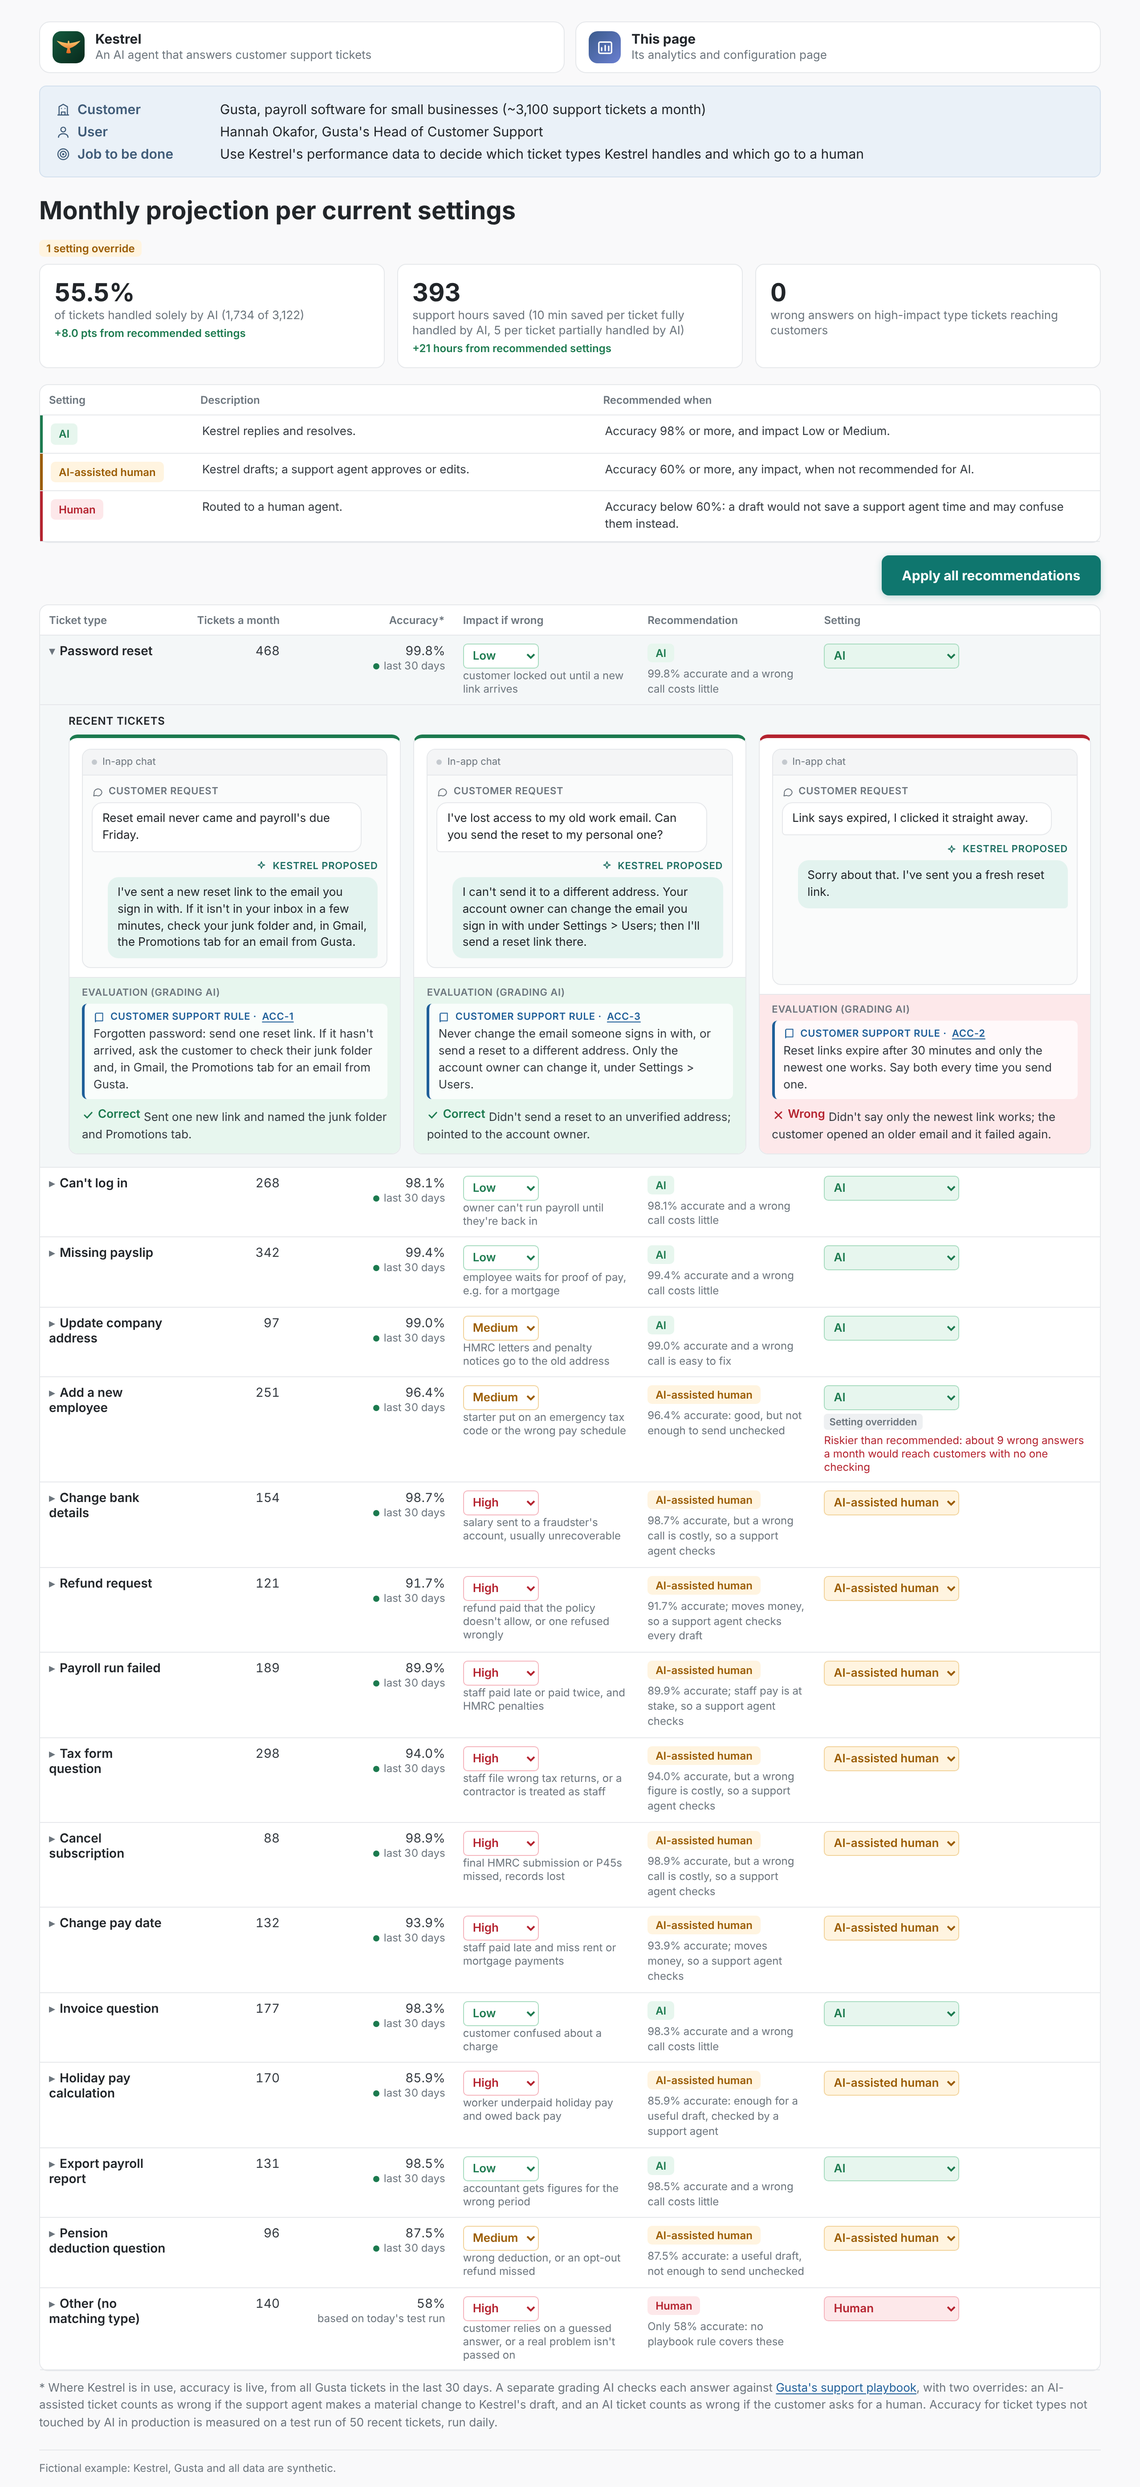
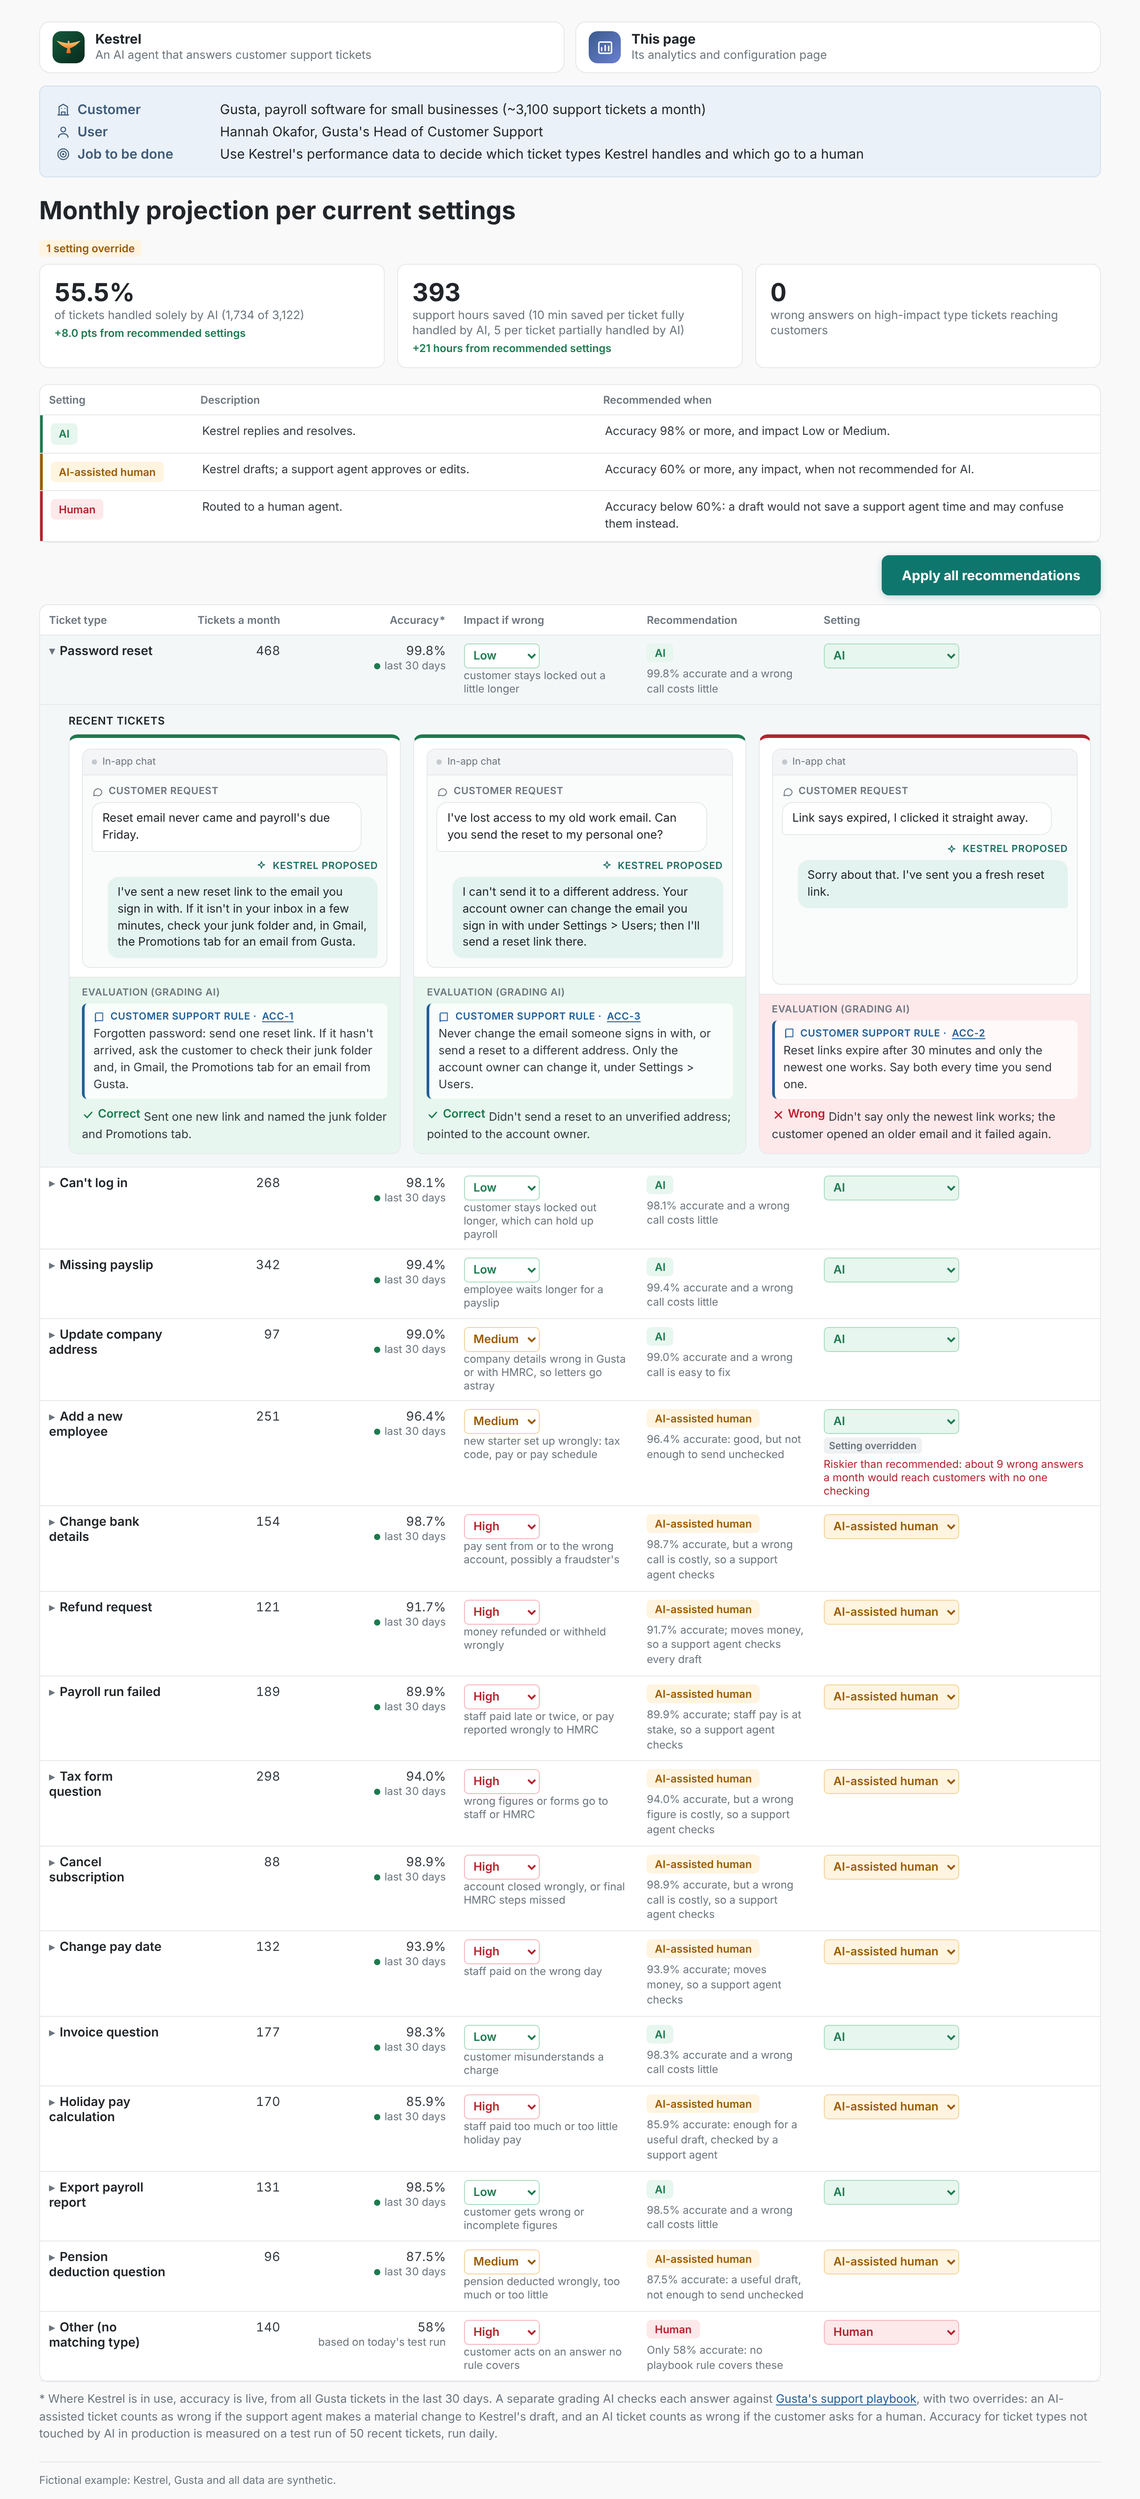
Impact lines describe the whole category, in both directions
- e.g. Holiday pay: staff paid too much or too little holiday pay; Export: customer gets wrong or incomplete figures
- Only the lines changed: levels, volumes, accuracy and tickets are identical (data compared before and after)

Claude-Session: https://claude.ai/code/session_016JoguXTxkWcj5knaYbAtMZ

diff --git a/examples/kestrel/notebooks/make_data.py b/examples/kestrel/notebooks/make_data.py
@@ -95,67 +95,67 @@ PLAYBOOK = [
 RULE = {i: r for _, rs in PLAYBOOK for i, r in rs}
 
 T = [
- ("Password reset", 468, 50, "Low", "Low: customer locked out until a new link arrives", False, [
+ ("Password reset", 468, 50, "Low", "Low: customer stays locked out a little longer", False, [
    ("Reset email never came and payroll's due Friday.", "I've sent a new reset link to the email you sign in with. If it isn't in your inbox in a few minutes, check your junk folder and, in Gmail, the Promotions tab for an email from Gusta.", 'ACC-1', True, 'Sent one new link and named the junk folder and Promotions tab.'),
    ("I've lost access to my old work email. Can you send the reset to my personal one?", "I can't send it to a different address. Your account owner can change the email you sign in with under Settings > Users; then I'll send a reset link there.", 'ACC-3', True, "Didn't send a reset to an unverified address; pointed to the account owner."),
    ('Link says expired, I clicked it straight away.', "Sorry about that. I've sent you a fresh reset link.", 'ACC-2', False, "Didn't say only the newest link works; the customer opened an older email and it failed again.")]),
- ("Can't log in", 268, 49, "Low", "Low: owner can't run payroll until they're back in", False, [
+ ("Can't log in", 268, 49, "Low", "Low: customer stays locked out longer, which can hold up payroll", False, [
    ('Got a new phone and my authenticator codes are gone.', "You can sign in with one of the backup codes you saved when you set up 2-step verification. If you don't have them, I'll pass you to a support agent, who will check your identity before resetting it.", 'ACC-5', True, "Offered backup codes and a verified handover; didn't switch off 2-step in chat."),
    ("It says I'm locked out after too many tries.", "Your account locked after 5 wrong passwords. It unlocks by itself in 15 minutes; I've sent a reset link so you can choose a new password then.", 'ACC-4', True, 'Explained the 15-minute wait and sent a reset link.'),
    ('The app just spins since the update, but the website works.', "Try signing out of the app, clearing its cache in your phone's settings, and signing in again.", 'ACC-6', False, 'Skipped the version check; the app was 3 versions behind and needed updating.')]),
- ("Missing payslip", 342, 50, "Low", "Low: employee waits for proof of pay, e.g. for a mortgage", False, [
+ ("Missing payslip", 342, 50, "Low", "Low: employee waits longer for a payslip", False, [
    ("Can you resend Sam's March payslip?", "I've resent Sam's March payslip to the email address on Sam's employee record. You can also resend it yourself from Sam's record, under Documents.", 'PAY-4', True, "Sent it only to the email on Sam's record."),
    ('Where do my staff download their payslips?', "Your staff get their payslips in the Gusta employee app once each payroll is finalised. Here's a guide to share with them: Getting started with the employee app.", 'PAY-2', True, 'Pointed to the employee app and shared the guide.'),
    ("Two staff say they've got no payslip this month.", "I've resent this month's payslips to both of them.", 'PAY-3', False, "Didn't check the release date: payslips were set to appear on payday, two days later, so nothing was missing.")]),
- ("Update company address", 97, 50, "Medium", "Medium: HMRC letters and penalty notices go to the old address", False, [
+ ("Update company address", 97, 50, "Medium", "Medium: company details wrong in Gusta or with HMRC, so letters go astray", False, [
    ("We've moved office. How do I change the address on payslips?", 'Payslips show your business address, which you can change under Settings > Company > Business address. If your registered office has moved too, update it at Companies House first, then in Gusta.', 'CO-3', True, 'Pointed to the business address for payslips, and the right order for the registered office.'),
    ('Our accountant changed our registered office at Companies House. Does payroll update?', 'Not by itself. As the account owner, update it under Settings > Company > Registered office. Also check the PAYE address HMRC holds for you, as payroll letters go there.', 'CO-2', True, 'Covered the separate PAYE address HMRC holds.'),
    ('Can you change our registered office to 14 Mill Lane?', 'Done: your registered office is now 14 Mill Lane.', 'CO-1', False, 'Changed it for an admin, not the account owner, and before it was registered at Companies House.')]),
- ("Add a new employee", 251, 48, "Medium", "Medium: starter put on an emergency tax code or the wrong pay schedule", False, [
+ ("Add a new employee", 251, 48, "Medium", "Medium: new starter set up wrongly: tax code, pay or pay schedule", False, [
    ('New starter on Monday, no P45 yet. What tax code?', "Ask them to fill in HMRC's starter checklist. Their answer to statement A, B or C sets the tax code, and Gusta applies it when you add them under Employees > Add employee.", 'EMP-2', True, 'Used the starter checklist instead of guessing a code.'),
    ('New starter is part time, 3 days a week.', 'When you add them, set their contracted hours to 3 days a week. Gusta then pays 3/5 of the full-time salary.', 'EMP-3', True, 'Set contracted hours so the salary is pro rata.'),
    ('Adding a weekly-paid warehouse worker to our monthly payroll.', 'Add them under Employees > Add employee and choose your monthly pay schedule.', 'EMP-4', False, 'Put a weekly-paid worker on the monthly schedule; the account had no weekly schedule, so one was needed first.')]),
- ("Change bank details", 154, 49, "High", "High: salary sent to a fraudster's account, usually unrecoverable", True, [
+ ("Change bank details", 154, 49, "High", "High: pay sent from or to the wrong account, possibly a fraudster's", True, [
    ("We've switched banks. What do I need to change?", "Your account owner can add the new paying account under Settings > Bank account, and our team confirms it on a short verification call. It applies from your next pay run, so recreate any payment file you've already made.", 'BANK-1', True, 'Covered owner approval, the verification call and the payment file.'),
    ('Got an email from Jo with new bank details. Can you update them before Friday?', 'Before changing anything, please call Jo on the number already on file to confirm the new details. Emailed requests are a common way fraudsters divert salaries.', 'BANK-2', True, 'Asked for a call-back on the number on file before any change.'),
    ("We've changed our company account number and payroll goes out tomorrow.", "I've started the change so tomorrow's payment comes from the new account. Your account owner needs to approve it first.", 'BANK-3', False, 'Payday was 1 working day away; inside 3 days it should have gone to a support agent for a manual check.')]),
- ("Refund request", 121, 46, "High", "High: refund paid that the policy doesn't allow, or one refused wrongly", True, [
+ ("Refund request", 121, 46, "High", "High: money refunded or withheld wrongly", True, [
    ('Charged twice this month??', "I can see two identical charges on your November invoice. I've refunded the second one in full.", 'BILL-1', True, 'Confirmed the duplicate on the invoice, then refunded it in full.'),
    ('We cancelled on 20 February but were still billed for February.', "Sorry about that. I've refunded February's charge in full.", 'BILL-2', False, 'February was still due: the cancellation only took effect at the end of February.'),
    ('Can I get my money back for the rest of our annual plan?', 'Annual plans can get a pro-rata refund for unused months. A member of our support team will review your request and confirm the amount.', 'BILL-3', True, 'Sent the pro-rata refund for a support agent to review.')]),
- ("Payroll run failed", 189, 45, "High", "High: staff paid late or paid twice, and HMRC penalties", True, [
+ ("Payroll run failed", 189, 45, "High", "High: staff paid late or twice, or pay reported wrongly to HMRC", True, [
    ('HMRC rejected my submission and staff are already paid.', "Your staff's pay isn't affected; only the report to HMRC was rejected. Priya Shah's National Insurance number is in the wrong format. Correct it on her record, then resubmit the FPS from Payroll > Submissions.", 'RUN-2', True, "Named the employee and field, and said pay wasn't affected."),
    ('The payment file failed and payday is Friday.', 'Your bank authorisation for BACS payments expired on 1 November. Renew it under Settings > Bank account > Authorisation, then resubmit by the end of today so staff are paid on Friday.', 'RUN-1', True, 'Found the expired authorisation and gave the BACS deadline.'),
    ("Payroll didn't go through and staff are asking where their pay is.", 'Sorry about that. Rerun payroll from Payroll > Runs and your staff will be paid.', 'RUN-3', False, "Didn't check the payment: it had already been sent, so a rerun would pay staff twice.")]),
- ("Tax form question", 298, 47, "High", "High: staff file wrong tax returns, or a contractor is treated as staff", False, [
+ ("Tax form question", 298, 47, "High", "High: wrong figures or forms go to staff or HMRC", False, [
    ('Where are the P60s for my staff?', "They're under Reports > Year end. You can send each employee their P60 from there; they need to have them by 31 May.", 'TAX-1', True, 'Gave the right place and the 31 May deadline.'),
    ("My P60 doesn't match my payslips added up.", 'Your P60 includes a correction made in November, after your tax code changed, which was sent to HMRC separately. Payslips before November show the old figures.', 'TAX-2', True, 'Found the November correction before answering.'),
    ('Do my subbies get a P60?', "Yes: add them under Employees and they'll get a P60 at year end with everyone else.", 'TAX-3', False, 'Treated CIS subcontractors as employees; they get monthly CIS statements, not P60s.')]),
- ("Cancel subscription", 88, 50, "High", "High: final HMRC submission or P45s missed, records lost", False, [
+ ("Cancel subscription", 88, 50, "High", "High: account closed wrongly, or final HMRC steps missed", False, [
    ('Closing the business at the end of the month. What do I need to do?', "Sorry to see you go. Run your final payroll, mark the last FPS as final with the date you stopped employing staff, give everyone a P45, and export your records under Reports > Export all. Once your account owner confirms, I'll set up the cancellation.", 'CAN-1', True, "Covered final payroll, final FPS, P45s, export and the owner's confirmation."),
    ('Please cancel at the end of this month.', "I've set your cancellation for the end of this billing month; this month is still charged. Before then, export your records under Reports > Export all.", 'BILL-2', True, "Cancelled for the end of the billing month and said it's still charged."),
    ('Moving to another provider. What happens to our data?', 'Your records are deleted when your account closes, so export anything you need first.', 'CAN-2', False, "Records stay read-only for 6 years, not deleted at closing, and it didn't mention the 3-year record-keeping rule.")]),
- ("Change pay date", 132, 47, "High", "High: staff paid late and miss rent or mortgage payments", True, [
+ ("Change pay date", 132, 47, "High", "High: staff paid on the wrong day", True, [
    ('Can we pay on the 25th instead of the last day of the month?', 'Yes. Change it under Settings > Pay schedules; it starts from your next pay period. Approve each run 3 working days before the 25th so the BACS payment arrives on time.', 'RUN-4', True, 'Started it from the next pay period and gave the BACS deadline.'),
    ("Payday's a bank holiday. When do we pay?", "Pay on the working day before. I've moved this month's pay date to Friday, so approve the run by Tuesday for BACS.", 'RUN-5', True, 'Moved pay to the working day before and brought the deadline forward.'),
    ("Can we bring this month's payday forward to tomorrow?", "Done: this month's pay date is now tomorrow.", 'RUN-6', False, 'Tomorrow was inside the 3-working-day BACS window; staff would have been paid late.')]),
- ("Invoice question", 177, 49, "Low", "Low: customer confused about a charge", False, [
+ ("Invoice question", 177, 49, "Low", "Low: customer misunderstands a charge", False, [
    ("Why is this month's invoice higher?", 'You paid 2 more employees this month, Lena and Tom, added on 12 November. Each employee paid in a month is charged at the per-employee rate, on the second line of your invoice.', 'BILL-4', True, 'Explained the line from the invoice breakdown.'),
    ('Where do I download invoices for my accountant?', "They're under Settings > Billing > Invoices. Here's October's.", 'BILL-5', True, 'Sent the invoice and showed where invoices are kept.'),
    ('Why did our price go up?', 'Gusta raised prices for all customers this year.', 'BILL-6', False, "Didn't check the plan history: they had moved to a bigger plan in September.")]),
- ("Holiday pay calculation", 170, 43, "High", "High: worker underpaid holiday pay and owed back pay", False, [
+ ("Holiday pay calculation", 170, 43, "High", "High: staff paid too much or too little holiday pay", False, [
    ('How much holiday does a 3-day-a-week employee get?', 'Statutory holiday is 5.6 weeks a year, so someone working 3 days a week gets 16.8 days.', 'HOL-1', True, 'Gave the pro-rata figure.'),
    ("Why is Dan's holiday pay more than his normal week?", "That looks like an error. Dan's holiday pay should match his basic pay, so I'd reduce it.", 'HOL-2', False, 'Dan works regular overtime, which must be included; the higher figure was right.'),
    ('Our casual staff, how much holiday do they get?', 'For irregular-hours workers, holiday builds up at 12.07% of the hours they work each pay period. Gusta works this out when you set their contract to irregular hours.', 'HOL-3', True, 'Applied the irregular-hours rule.')]),
- ("Export payroll report", 131, 50, "Low", "Low: accountant gets figures for the wrong period", False, [
+ ("Export payroll report", 131, 50, "Low", "Low: customer gets wrong or incomplete figures", False, [
    ('My accountant needs payroll totals for the tax year.', "Here's your payroll summary for the last full tax year, 6 April to 5 April, as a spreadsheet. Tell me if your accountant needs different dates.", 'REP-1', True, 'Defaulted to the last full tax year.'),
    ('How do I export last quarter?', 'Go to Reports > Payroll summary, set the dates to April to June, and click Export.', 'REP-2', False, 'The ticket came in October; the most recent full quarter was July to September.'),
    ('Can I get a list of all employees with their salaries?', "Here's the list of your 24 employees with their salaries.", 'REP-3', True, 'Checked the person is an admin before exporting salaries.')]),
- ("Pension deduction question", 96, 44, "Medium", "Medium: wrong deduction, or an opt-out refund missed", False, [
+ ("Pension deduction question", 96, 44, "Medium", "Medium: pension deducted wrongly, too much or too little", False, [
    ('Why has pension been taken from our new starter?', "Staff aged 22 or over earning more than £10,000 a year are enrolled automatically. You postpone enrolment by 3 months, and Sam's postponement ended in October, so deductions started this month.", 'PEN-1', True, "Explained enrolment using the account's postponement setting."),
    ('New guy wants to opt out. Can I stop it?', "He opts out himself through the pension provider. If he does within a month of enrolment, record it on his record under Pension and his deductions are refunded in the next run. You can't encourage him to opt out.", 'PEN-2', True, "Covered the opt-out window and refund, and didn't encourage it."),
    ("Amy's pension looks wrong this month.", "This month's pension deduction is the same as last month's, so it looks right.", 'PEN-3', False, "Didn't check her pay: a pay rise hadn't reached the pension calculation, so the deduction was too low.")]),
- ("Other (no matching type)", 140, 29, "High", "High: customer relies on a guessed answer, or a real problem isn't passed on", False, [
+ ("Other (no matching type)", 140, 29, "High", "High: customer acts on an answer no rule covers", False, [
    ('Is my cleaner self-employed or staff?', "If they set their own hours and bring their own equipment, they're self-employed, so you don't need to add them to payroll.", 'GEN-5', False, 'Gave an employment-status judgement instead of handing over to a support agent.'),
    ('An ex-employee wants a copy of all the data we hold on him.', "That's a subject access request, which you need to answer within a month. I'll pass you to a member of our support team, who can help you export his records.", 'GEN-5', True, 'Handed the data request over to a support agent.'),
    ('The tax on one payslip looks wrong. Is it a bug?', "Gusta's tax calculations follow HMRC's rules, so the figure is right. Check the employee's tax code.", 'GEN-5', False, 'Dismissed a possible bug instead of handing over to a support agent.')]),
